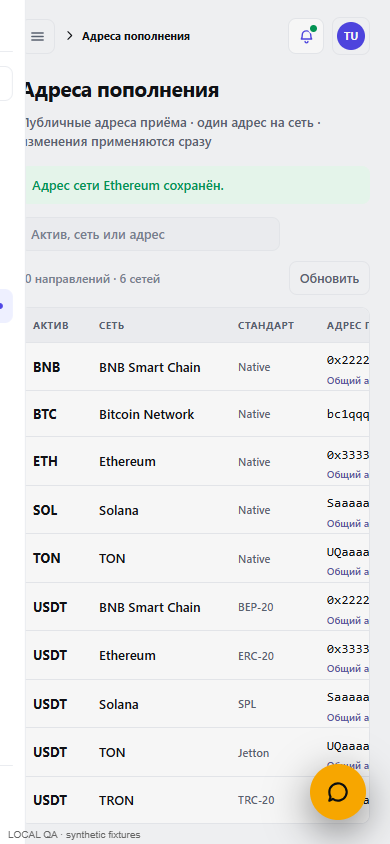
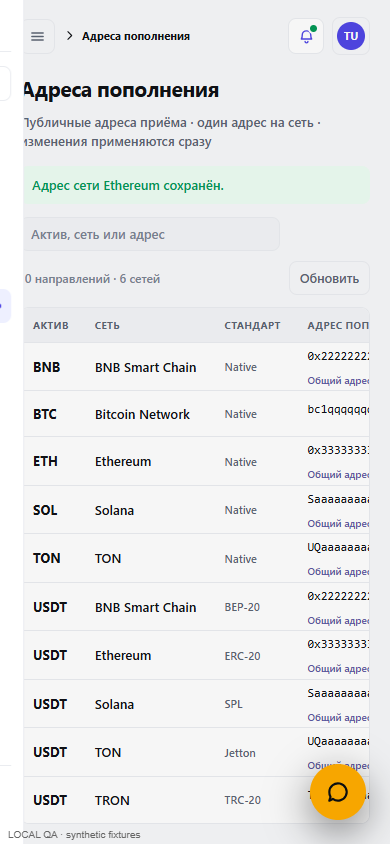
[CF-Pages-Skip] Show full deposit addresses without the source column

diff --git a/frontend/src/pages/admin/AdminWalletsPage.tsx b/frontend/src/pages/admin/AdminWalletsPage.tsx
@@ -48,12 +48,11 @@ export function AdminWalletsPage() {
       <button style={styles.neutralBtn} onClick={() => { setError(null); reload().catch(() => setError('Не удалось загрузить адреса.')); }}>Обновить</button>
     </div>
     <div className="admin-data-wrap"><table className="admin-data-table admin-address-table">
-      <thead><tr>{['Актив', 'Сеть', 'Стандарт', 'Адрес пополнения', 'Статус', 'Источник', 'Изменён', 'Действие'].map(h => <th key={h}>{h}</th>)}</tr></thead>
+      <thead><tr>{['Актив', 'Сеть', 'Стандарт', 'Адрес пополнения', 'Статус', 'Изменён', 'Действие'].map(h => <th key={h}>{h}</th>)}</tr></thead>
       <tbody>{filtered.map(r => <tr key={r.key}>
         <td><strong className="admin-asset">{r.asset}</strong></td><td>{r.network}</td><td><span className="admin-standard">{r.standard}</span></td>
-        <td><CopyValue value={r.wallet.address} label={`адрес ${r.label}`} />{r.shared && <small className="admin-shared" title="Все настроенные активы этой сети используют этот адрес">Общий адрес сети</small>}</td>
+        <td><CopyValue full value={r.wallet.address} label={`адрес ${r.label}`} />{r.shared && <small className="admin-shared" title="Все настроенные активы этой сети используют этот адрес">Общий адрес сети</small>}</td>
         <td><span className={`admin-chip ${r.wallet.address ? 'positive' : 'warning'}`}>{r.wallet.address ? 'Адрес задан' : 'Нет адреса'}</span></td>
-        <td>{r.wallet.isOverridden ? 'Администратор' : 'По умолчанию'}</td>
         <td title={r.wallet.updatedByAdminId ?? undefined}>{r.wallet.updatedAt ? new Date(r.wallet.updatedAt).toLocaleDateString('ru-RU') : '—'}</td>
         <td><button style={styles.neutralBtn} aria-label={`Изменить ${r.label}`} onClick={() => { setSelected(r); setDraft(r.wallet.address ?? ''); setError(null); setConfirmation(null); }}>Изменить</button></td>
       </tr>)}</tbody>

diff --git a/frontend/src/lib/__tests__/adminConsoleInteractions.test.ts b/frontend/src/lib/__tests__/adminConsoleInteractions.test.ts
@@ -55,6 +55,8 @@ test('table has both rails sharing an address, editor gives scope, confirmation 
   await mountWallets();
   expect(host.querySelectorAll('tbody tr')).toHaveLength(2);
   expect(host.querySelectorAll('tbody input')).toHaveLength(0);
+  expect(host.querySelector('thead')!.textContent).not.toContain('Источник');
+  expect(host.querySelector('tbody')!.textContent).toContain(wallets[0].address);
   await act(async () => { (host.querySelector('button[aria-label="Изменить USDT · Ethereum (ERC-20)"]') as HTMLButtonElement).click(); });
   expect(host.querySelector('dialog')!.textContent).toContain('ETH · Ethereum (Native)');
   expect(host.querySelector('dialog')!.textContent).toContain('USDT · Ethereum (ERC-20)');
@@ -76,7 +78,7 @@ test('reset confirmation shows real default and calls the same network endpoint 
   expect(host.querySelector('dialog')!.textContent).toContain(wallets[0].defaultAddress);
   await click('Подтвердить');
   expect(api.resetAdminWallet).toHaveBeenCalledWith('ethereum');
-  expect(host.textContent).toContain('По умолчанию');
+  expect(host.querySelector('tbody')!.textContent).toContain(wallets[0].defaultAddress);
 });
 test('save failure keeps editor and exposes retry, cancelled editing never mutates', async () => {
   api.setAdminWalletAddress.mockRejectedValue(new Error('failed'));

diff --git a/frontend/src/pages/admin/AdminPrimitives.tsx b/frontend/src/pages/admin/AdminPrimitives.tsx
@@ -2,12 +2,12 @@ import { useEffect, useRef, useState, type ReactNode } from 'react';
 import { styles } from './adminStyles';
 import { railDisplay } from './depositRails';
 
-export function CopyValue({ value, label = 'Значение' }: { value: string | null | undefined; label?: string }) {
+export function CopyValue({ value, label = 'Значение', full = false }: { value: string | null | undefined; label?: string; full?: boolean }) {
   const [copied, setCopied] = useState(false);
   const [failed, setFailed] = useState(false);
   if (!value) return <span>—</span>;
-  return <span className="admin-copy-value">
-    <span className="mono admin-ellipsis" title={value}>{value.length > 24 ? `${value.slice(0, 10)}…${value.slice(-8)}` : value}</span>
+  return <span className={`admin-copy-value${full ? ' admin-copy-value-full' : ''}`}>
+    <span className={`mono ${full ? 'admin-full-value' : 'admin-ellipsis'}`} title={value}>{!full && value.length > 24 ? `${value.slice(0, 10)}…${value.slice(-8)}` : value}</span>
     <button type="button" className="admin-copy" title={`${label}: ${value}`} aria-label={`Копировать ${label}`} onClick={async () => {
       try { await navigator.clipboard.writeText(value); setCopied(true); setFailed(false); }
       catch { setFailed(true); }

diff --git a/frontend/src/pages/admin/adminConsole.css b/frontend/src/pages/admin/adminConsole.css
@@ -20,6 +20,9 @@
 .admin-chip.positive { color: var(--buy); background: var(--buy-dim); }
 .admin-chip.warning { color: var(--accent); background: var(--accent-dim); }
 .admin-copy-value { position: relative; display: inline-flex; align-items: center; max-width: 100%; gap: 6px; line-height: 18px; }
+.admin-address-table td:nth-child(4) { width: 40%; min-width: 280px; }
+.admin-copy-value-full { width: 100%; align-items: flex-start; }
+.admin-copy-value-full .admin-full-value { min-width: 0; white-space: normal; font-size: 12px; }
 .admin-ellipsis { min-width: 0; overflow: hidden; text-overflow: ellipsis; white-space: nowrap; }
 .admin-copy { border: 0; background: transparent; color: var(--text-secondary); cursor: pointer; padding: 2px; font-size: 16px; flex: none; }
 .admin-copy:hover { color: var(--admin-brand); }
